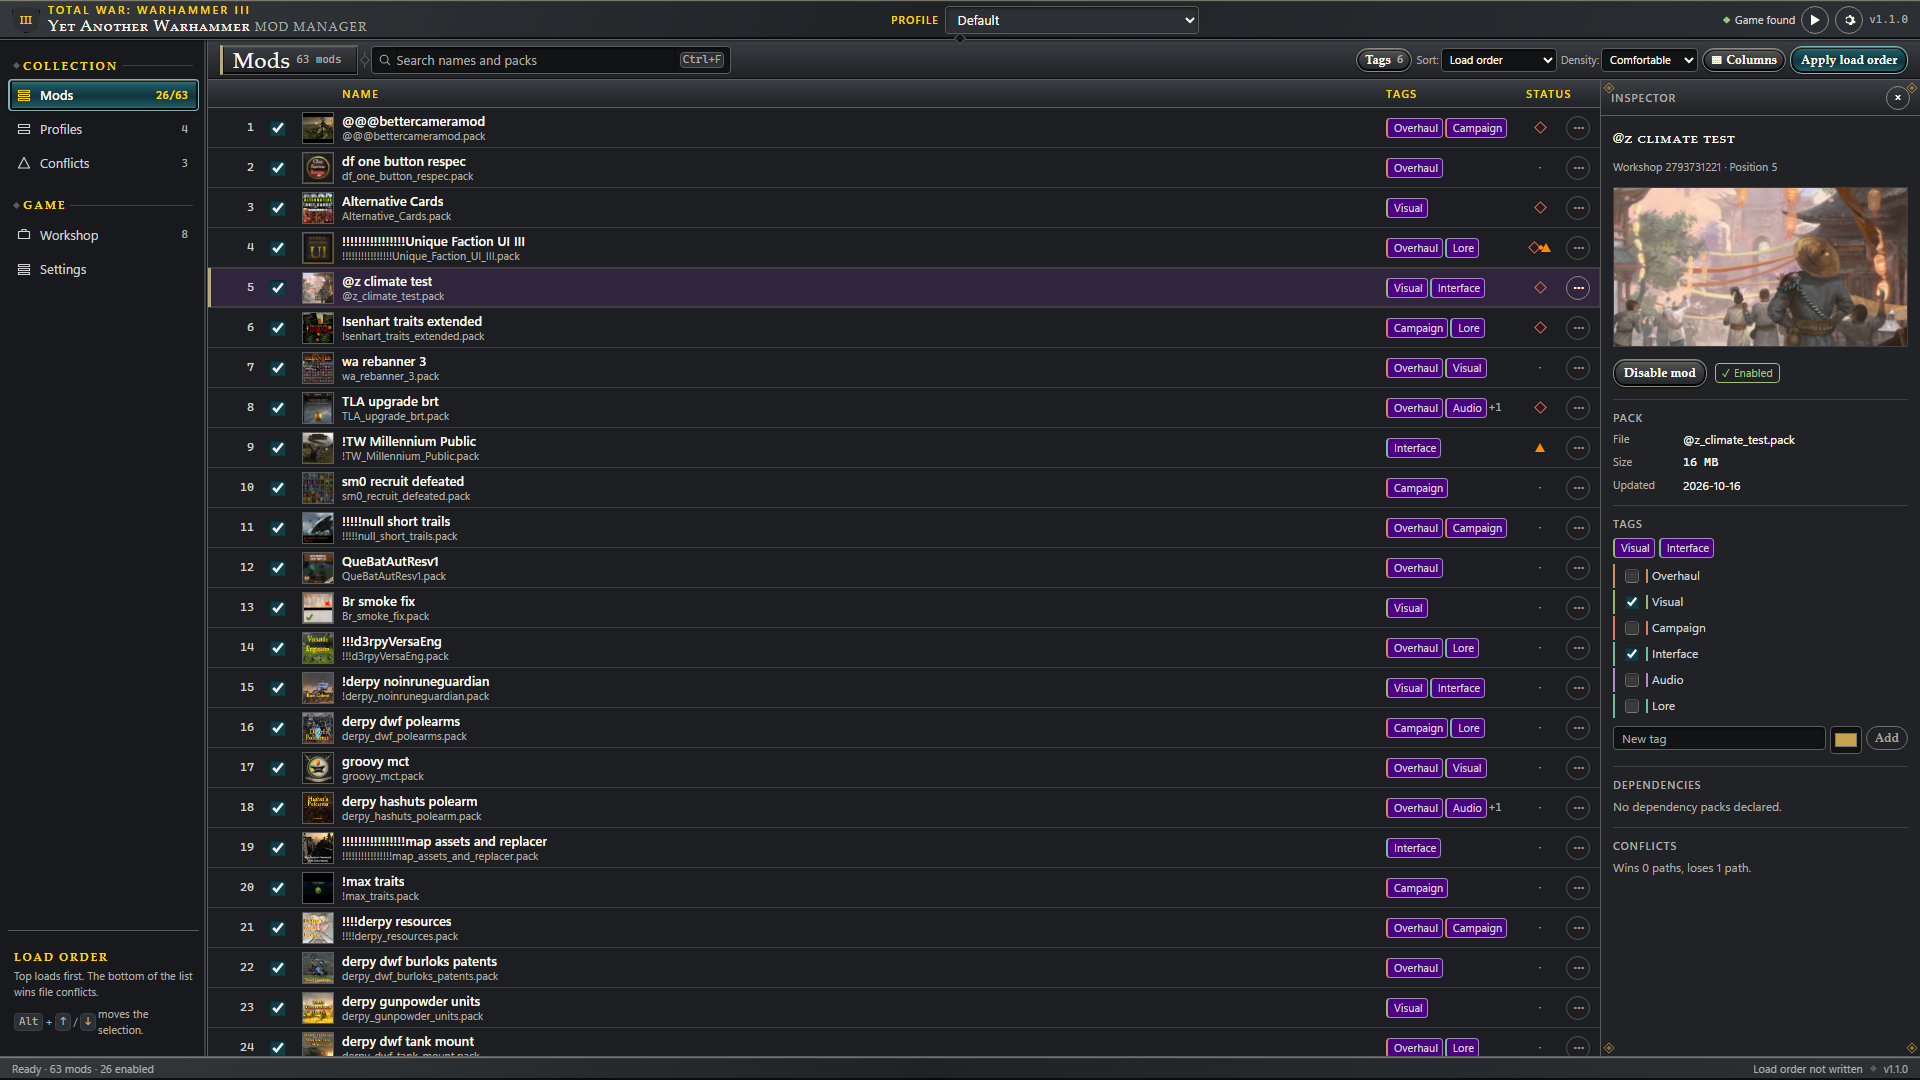
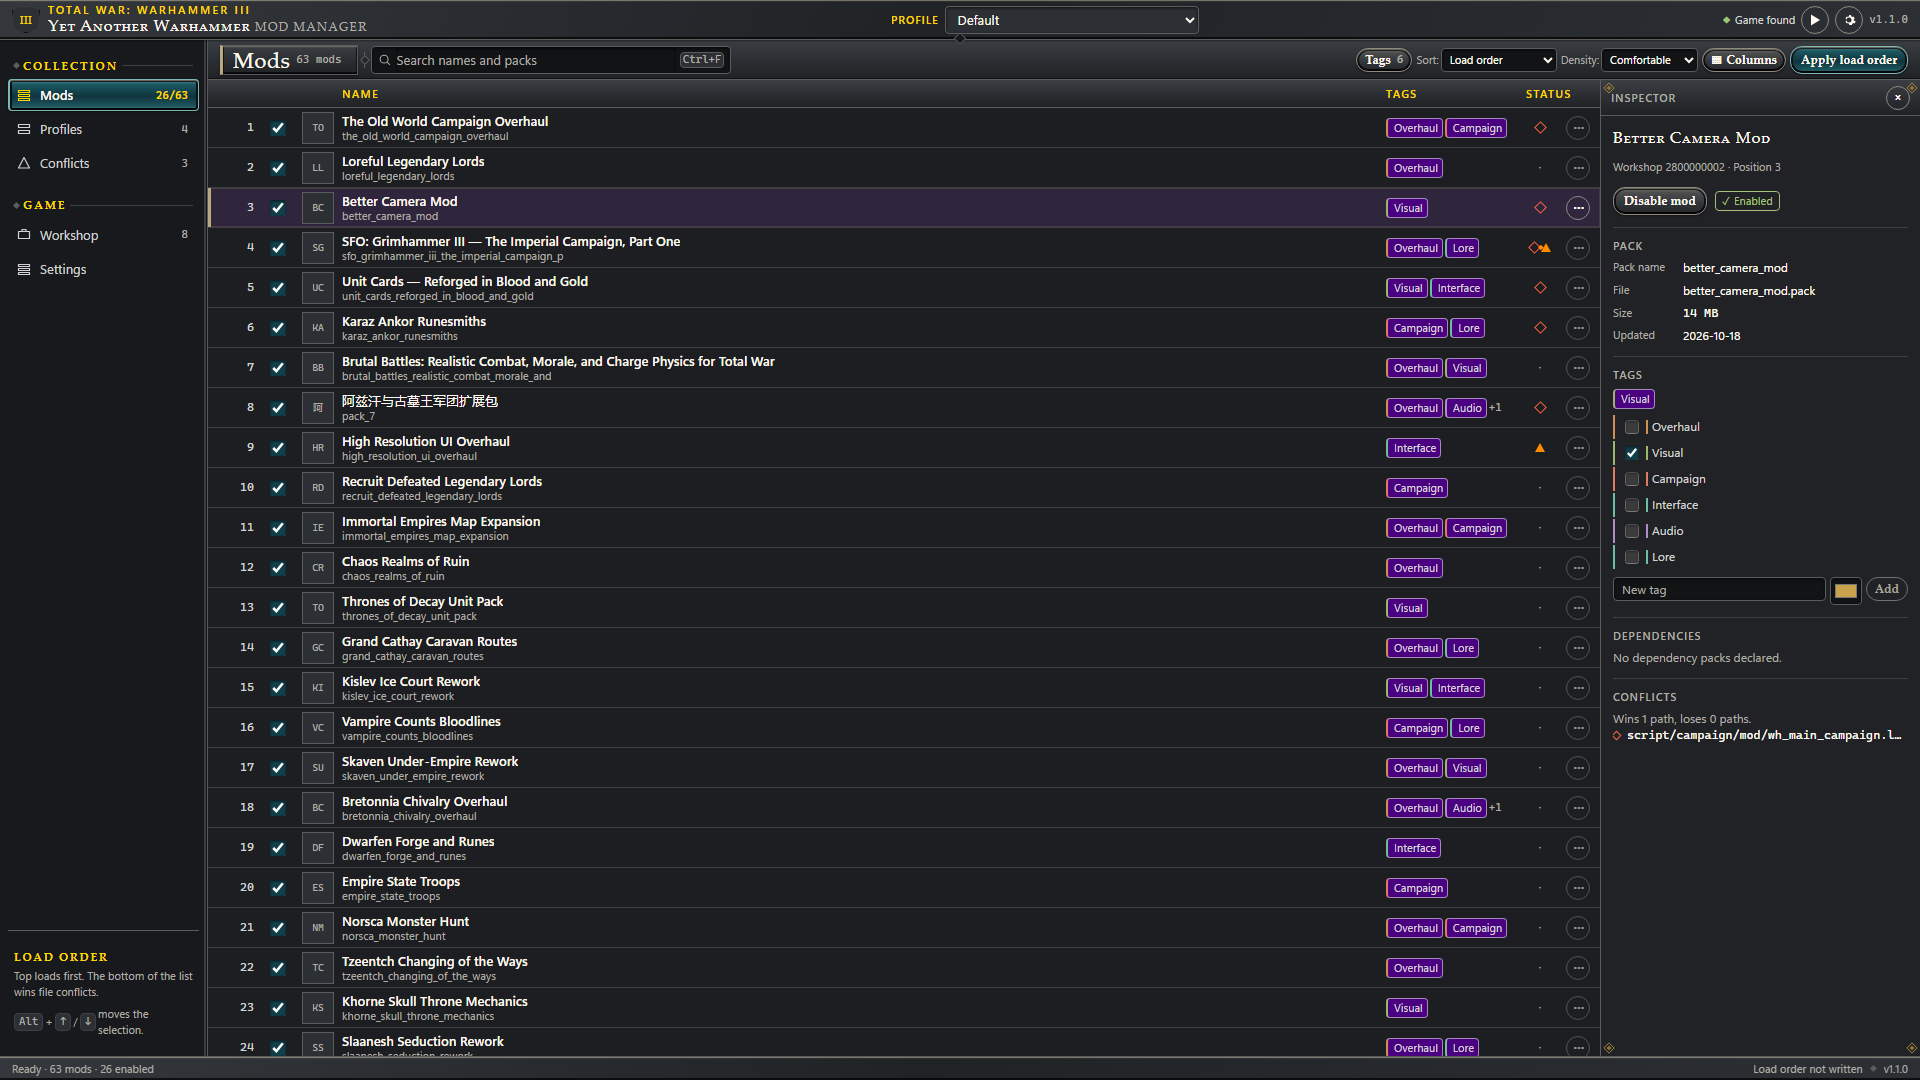
feat: keep the pack handle as the mod subtitle
Show the technical pack handle beneath the official Workshop title, keep Pack name and File in the inspector, and add before/after screenshot evidence plus refreshed showcase captures.

Changed region(s): [[0.0938, 0.0917, 1.0, 0.9778], [0.9375, 0.5194, 1.0, 0.5806]]

diff --git a/frontend/src/App.test.tsx b/frontend/src/App.test.tsx
@@ -562,11 +562,15 @@ describe('App', () => {
     const list = await screen.findByRole('listbox', { name: 'Mods' })
     const row = within(list).getByText('Official Alpha').closest('[role="option"]')
     expect(row).not.toBeNull()
+    expect(row!.querySelector('.row-pack')).toHaveTextContent('alpha_internal')
+    expect(row!.querySelector('.row-pack')).not.toHaveTextContent('.pack')
     fireEvent.doubleClick(row!)
 
     expect(await screen.findByRole('heading', { name: 'Official Alpha' })).toBeInTheDocument()
-    expect(screen.getByText('Pack name')).toBeInTheDocument()
-    expect(screen.getByText('alpha_internal')).toBeInTheDocument()
+    const inspector = screen.getByRole('complementary', { name: 'Inspector' })
+    expect(within(inspector).getByText('Pack name')).toBeInTheDocument()
+    expect(within(inspector).getByText('alpha_internal')).toBeInTheDocument()
+    expect(within(inspector).getByText('alpha_internal.pack')).toBeInTheDocument()
   })
 
   it('switches sections with Ctrl+1..5 and focuses search with Ctrl+F', async () => {

diff --git a/frontend/src/components/mod-list/ModRow.tsx b/frontend/src/components/mod-list/ModRow.tsx
@@ -5,7 +5,7 @@ import {
   type ModSummary,
   type Tag,
 } from '../../lib/ipc'
-import { factionSlotForColor } from '../../lib/ui'
+import { factionSlotForColor, packStem } from '../../lib/ui'
 
 export interface ModRowProps {
   mod: ModSummary
@@ -152,8 +152,8 @@ export const ModRow = memo(function ModRow({
             </span>
           )}
         </span>
-        <span className="row-meta" title={mod.name}>
-          <span className="row-pack">{mod.name}</span>
+        <span className="row-meta" title={packStem(mod.name)}>
+          <span className="row-pack">{packStem(mod.name)}</span>
         </span>
         {!columns.includes('var(--row-tags-w)') && visibleTags.length > 0 && (
           <span className="row-inline-tags">

diff --git a/README.md b/README.md
@@ -206,8 +206,9 @@ For uninstall commands and configuration cleanup, see [the installation guide](d
 ## Highlights
 
 - **📚 One view for game and Workshop mods.** Scan installed packs, see official
-  Workshop titles, search and filter the list, add tags, and inspect the selected
-  pack. The inspector keeps the technical pack name for troubleshooting.
+  Workshop titles with the technical pack handle beneath each title, search and
+  filter the list, add tags, and inspect the selected pack. The inspector also
+  keeps the handle and exact filename for troubleshooting.
 - **🔄 Stay current without restarting.** A quiet metadata check picks up mods
   added by Steam while the manager is open; full scans run only when something
   actually changed.
@@ -290,7 +291,7 @@ server; filesystem and game actions require the Tauri app.
 | Capability | Status | Details |
 |---|---|---|
 | Game & Steam discovery | Implemented; platform caveats | Steam libraries and manual game-folder selection; Flatpak/Snap/XDG discovery is best-effort |
-| Mod browsing | Implemented | Local/Workshop packs, official Workshop titles, search, sort, tags, thumbnails, live refresh, and selected-pack inspection |
+| Mod browsing | Implemented | Local/Workshop packs, official Workshop titles with technical-handle subtitles, search, sort, tags, thumbnails, live refresh, and selected-pack inspection |
 | Load order | Implemented | Enable/disable, batch actions, drag/move controls, atomic writes, and backups |
 | Profiles | Implemented | Create, rename, duplicate, delete, switch, apply, and share as a portable JSON file (import requires every listed mod to be installed) |
 | Conflict inspection | Implemented | Overlapping pack entries, duplicate pack names, and missing/disabled dependencies |

diff --git a/docs/TESTING.md b/docs/TESTING.md
@@ -111,6 +111,11 @@ conflict report. Raw artwork is read locally and embedded only in screenshots.
 Without that optional directory, captures remain deterministic and use thumbnail
 placeholders.
 
+For the Workshop-title comparison, set `SHOT_TITLE_COMPARE=before|after` and
+`SHOT_ONLY=title-compare`. Run `before` from a clean `main` build and `after` from
+the feature build; the resulting images live in
+`docs/screenshots/workshop-title-comparison/`.
+
 All showcase captures were checked for page overflow and visually reviewed. The
 mod list has 23 visible rows at the stated viewport. Historical screenshot artifacts remain in their directories. Retired cross-app
 comparison reports are preserved in Git history; new performance reports measure

diff --git a/docs/screenshots/workshop-title-comparison/README.md b/docs/screenshots/workshop-title-comparison/README.md
@@ -1,0 +1,18 @@
+# Workshop title comparison
+
+These images use the deterministic screenshot fixture, not a real user's install.
+`before` was captured from a clean `main` build; `after` was captured from this
+branch.
+
+Regenerate with:
+
+```bash
+pnpm build
+SHOT_TITLE_COMPARE=before SHOT_ONLY=title-compare node scripts/qa/screenshots-m4.mjs
+SHOT_TITLE_COMPARE=after SHOT_ONLY=title-compare node scripts/qa/screenshots-m4.mjs
+```
+
+- The mod list title changes from the technical pack handle to the official
+  Workshop title; the handle remains as the subtitle.
+- The inspector keeps `Pack name` and adds the exact `File` name.
+- The same filter matches both the official title and the technical handle.

diff --git a/CHANGELOG.md b/CHANGELOG.md
@@ -9,7 +9,8 @@ unreleased describe implemented work, not a public download. See
 ### Added
 
 - Official Steam Workshop titles in the mod list and Workshop screen, cached
-  locally. The inspector keeps the technical pack name, and an offline or failed
+  locally. The technical pack handle remains as the row subtitle and in the
+  inspector's Pack name, with the exact filename beside it. An offline or failed
   lookup falls back to the pack stem without blocking startup.
 - Automatic collection refresh while the window is visible. A metadata-only
   fingerprint check runs every 5 seconds and triggers a full scan only when local
